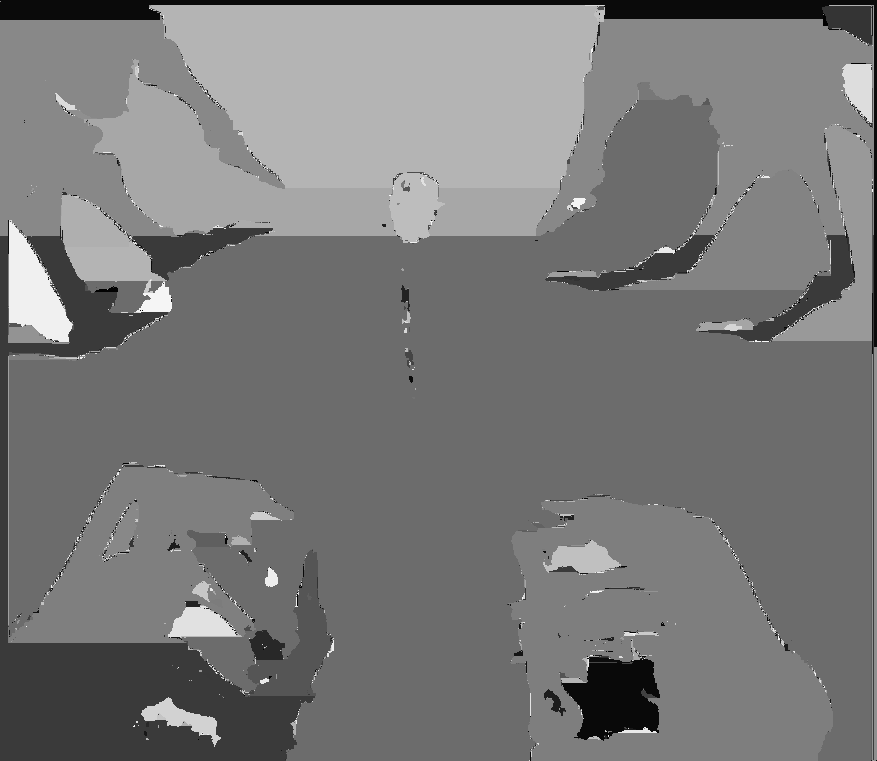
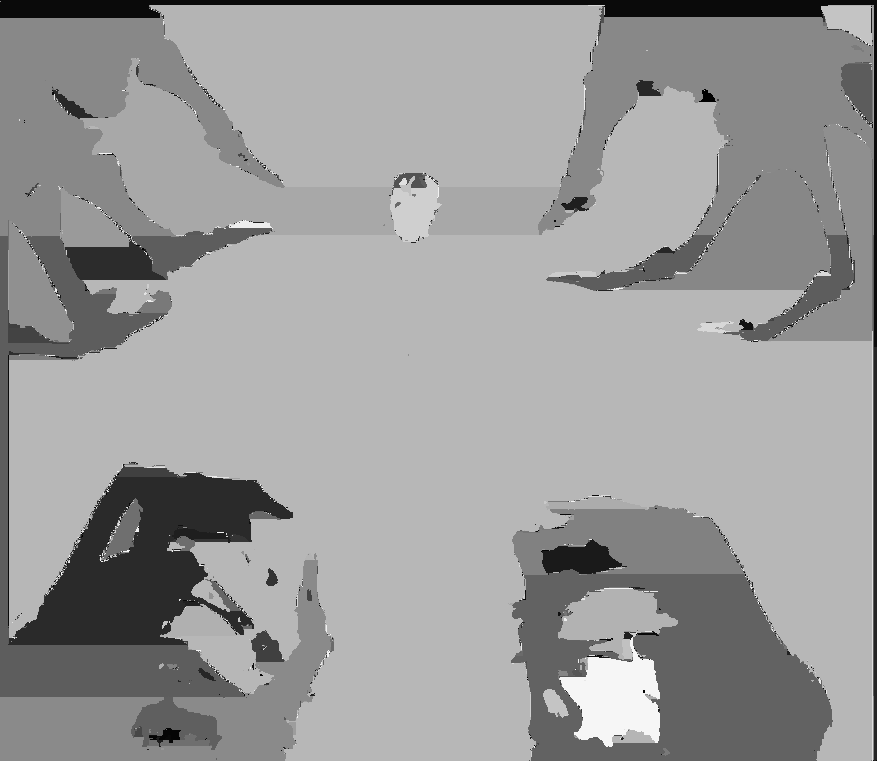
3 -> 1(3)

diff --git a/test.c b/test.c
@@ -84,7 +84,7 @@ int main(){
 	unsigned char *idata_new;
 	idata_new = (unsigned char*) malloc((iw*ih+1)*sizeof(unsigned char));
 	for(i=0; i<iw*ih*n-4; i+=4){	
-		idata_new[size] = (idata[i]*1 + idata[i+1]*20 + idata[i+2]*5 + idata[i+3]*15)/32;
+		idata_new[size] = (idata[i]*10 + idata[i+1]*5 + idata[i+2]*10 + idata[i+3]*15)/32;
 		size++;
 	}
 	printf("size=%d\n", size);
